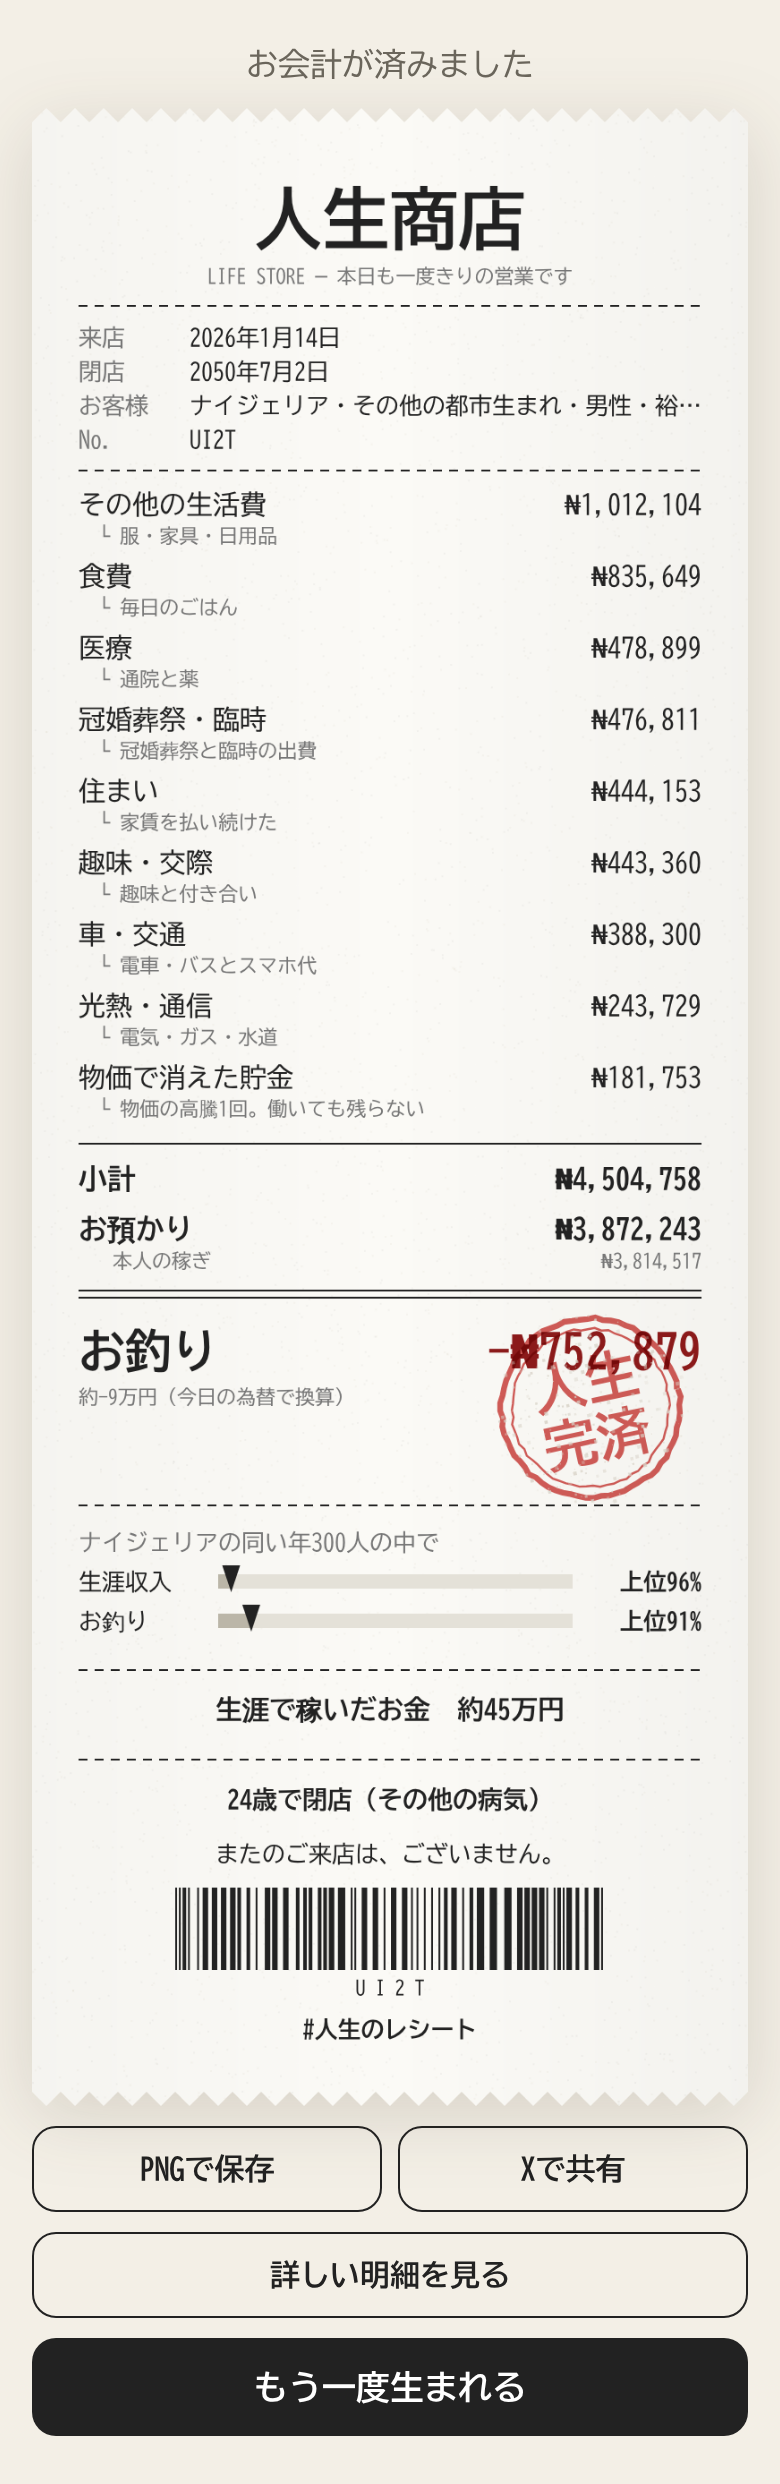
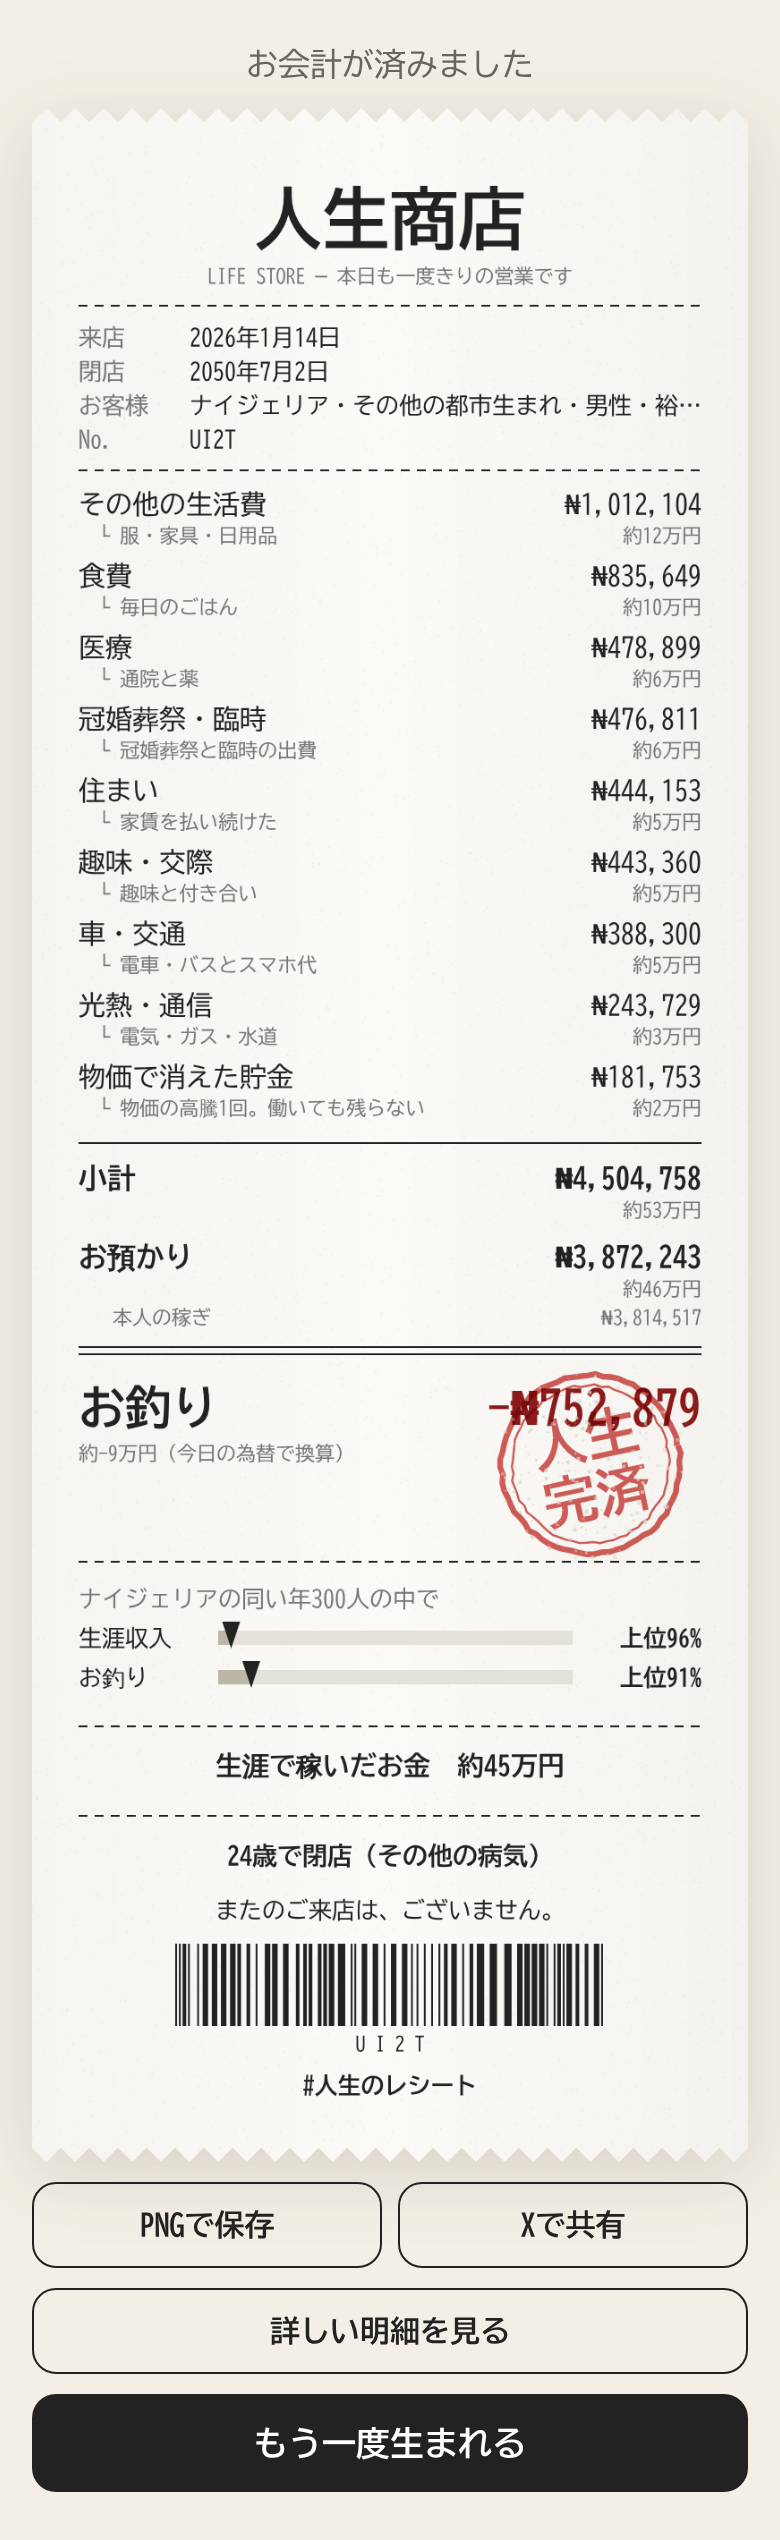
1年の進む時間を一定に、外国の通貨のレシートに円を添え、言語の切り替えを追加
- 1年は出来事の数にかかわらず3.2秒（速さは倍速ボタンだけで変える）
- レシート画像の各項目・小計・お預かりの下と、グラフの金額に円の目安を表示
- タイトル画面・詳細ページ・紹介ページに言語の切り替え（Google 翻訳で7言語）

Claude-Session: https://claude.ai/code/session_01P8h7G7H9Hz4F9jwmunJGJH

diff --git a/public/lp/index.html b/public/lp/index.html
@@ -126,6 +126,12 @@
       .faq details[open] summary::after { transform: rotate(45deg); }
       .faq p { margin-top: 16px; color: var(--sub); }
 
+      /* 言語の切り替え */
+      .topbar { display: flex; justify-content: flex-end; padding-top: 16px; }
+      .lang { display: inline-flex; align-items: center; gap: 8px; padding: 8px 16px; border-radius: 999px; background: var(--soft); color: var(--ink); font-size: 14px; cursor: pointer; }
+      .lang svg { width: 16px; height: 16px; flex: none; }
+      .lang select { appearance: none; -webkit-appearance: none; border: 0; background: transparent; color: inherit; font: inherit; cursor: pointer; padding: 0; }
+
       /* ご意見 */
       .fb { margin-top: 48px; max-width: 640px; display: grid; gap: 24px; }
       .fb fieldset { border: 0; padding: 0; margin: 0; }
@@ -167,7 +173,22 @@
   </head>
   <body>
     <main>
-      <section class="hero">
+      <div class="wrap topbar">
+        <label class="lang" translate="no">
+          <svg viewBox="0 0 24 24" fill="none" stroke="currentColor" stroke-width="1.8" stroke-linecap="round" stroke-linejoin="round" aria-hidden="true"><circle cx="12" cy="12" r="9" /><path d="M3.6 9h16.8M3.6 15h16.8" /><path d="M11.5 3a17 17 0 0 0 0 18M12.5 3a17 17 0 0 1 0 18" /></svg>
+          <select id="langSel" aria-label="Language">
+            <option value="ja">日本語</option>
+            <option value="en">English</option>
+            <option value="zh-CN">简体中文</option>
+            <option value="es">Español</option>
+            <option value="pt">Português</option>
+            <option value="fr">Français</option>
+            <option value="hi">हिन्दी</option>
+            <option value="id">Bahasa Indonesia</option>
+          </select>
+        </label>
+      </div>
+      <section class="hero" style="padding-top: 32px">
         <div class="wrap grid">
           <div>
             <div class="eyebrow"><img src="/icon-192.png" alt="" width="40" height="40" />人生のレシート</div>
@@ -346,6 +367,30 @@
       </div>
     </footer>
     <script>
+      // 言語の切り替え：ページを Google 翻訳（translate.goog）を通して開き直す（src/ui/lang.ts と同じ仕組み）
+      (function () {
+        const PROXY = ".translate.goog";
+        const sel = document.getElementById("langSel");
+        const onProxy = location.hostname.endsWith(PROXY);
+        const q = new URLSearchParams(location.search);
+        sel.value = onProxy ? q.get("_x_tr_tl") || "ja" : "ja";
+        const host = onProxy
+          ? location.host.slice(0, -PROXY.length).split("--").map((x) => x.replace(/-/g, ".")).join("-")
+          : location.host;
+        sel.addEventListener("change", () => {
+          for (const k of [...q.keys()]) if (k.startsWith("_x_tr_")) q.delete(k);
+          if (sel.value === "ja") {
+            const qs = q.toString();
+            location.href = "https://" + host + location.pathname + (qs ? "?" + qs : "") + location.hash;
+            return;
+          }
+          q.set("_x_tr_sl", "ja");
+          q.set("_x_tr_tl", sel.value);
+          q.set("_x_tr_hl", sel.value);
+          location.href = "https://" + host.replace(/-/g, "--").replace(/\./g, "-") + PROXY + location.pathname + "?" + q.toString() + location.hash;
+        });
+      })();
+
       // ご意見の送り先（Googleフォーム）。フォームを作ったら、ここに送信先と質問の番号を入れる。
       // 空のあいだは、ご意見の欄は表示しない。
       const FEEDBACK = {

diff --git a/src/ui/lang.ts b/src/ui/lang.ts
@@ -1,0 +1,70 @@
+// 言語の切り替え。ページを Google 翻訳（translate.goog）を通して開き直す。
+// ゲームの文章は日本語のまま作り、表示だけを機械翻訳する（レシート画像の中の文字は訳されない）。
+
+export const LANGS: { code: string; label: string }[] = [
+  { code: "ja", label: "日本語" },
+  { code: "en", label: "English" },
+  { code: "zh-CN", label: "简体中文" },
+  { code: "es", label: "Español" },
+  { code: "pt", label: "Português" },
+  { code: "fr", label: "Français" },
+  { code: "hi", label: "हिन्दी" },
+  { code: "id", label: "Bahasa Indonesia" },
+];
+
+const PROXY = ".translate.goog";
+
+/** translate.goog の住所から、もとのサイトの住所に戻す（"a--b-c" → "a-b.c"） */
+function originalHost(host: string): string {
+  if (!host.endsWith(PROXY)) return host;
+  return host
+    .slice(0, -PROXY.length)
+    .split("--")
+    .map((x) => x.replace(/-/g, "."))
+    .join("-");
+}
+
+/** いま表示している言語（翻訳されていなければ ja） */
+export function currentLang(): string {
+  if (!location.hostname.endsWith(PROXY)) return "ja";
+  return new URLSearchParams(location.search).get("_x_tr_tl") ?? "ja";
+}
+
+/** 指定した言語でこのページを開くURL */
+export function langUrl(code: string): string {
+  const host = originalHost(location.host);
+  const q = new URLSearchParams(location.search);
+  for (const k of [...q.keys()]) if (k.startsWith("_x_tr_")) q.delete(k);
+  if (code === "ja") {
+    const qs = q.toString();
+    return `https://${host}${location.pathname}${qs ? "?" + qs : ""}${location.hash}`;
+  }
+  const proxied = host.replace(/-/g, "--").replace(/\./g, "-") + PROXY;
+  q.set("_x_tr_sl", "ja");
+  q.set("_x_tr_tl", code);
+  q.set("_x_tr_hl", code);
+  return `https://${proxied}${location.pathname}?${q.toString()}${location.hash}`;
+}
+
+/** 言語を選ぶ小さなメニュー（地球のアイコン付き） */
+export function langPicker(): HTMLElement {
+  const wrap = document.createElement("label");
+  wrap.className = "lang";
+  wrap.setAttribute("translate", "no");
+  wrap.innerHTML = `<svg viewBox="0 0 24 24" fill="none" stroke="currentColor" stroke-width="1.8" stroke-linecap="round" stroke-linejoin="round" aria-hidden="true"><circle cx="12" cy="12" r="9"/><path d="M3.6 9h16.8M3.6 15h16.8"/><path d="M11.5 3a17 17 0 0 0 0 18M12.5 3a17 17 0 0 1 0 18"/></svg>`;
+  const sel = document.createElement("select");
+  sel.setAttribute("aria-label", "Language");
+  const now = currentLang();
+  for (const l of LANGS) {
+    const o = document.createElement("option");
+    o.value = l.code;
+    o.textContent = l.label;
+    if (l.code === now) o.selected = true;
+    sel.append(o);
+  }
+  sel.onchange = () => {
+    location.href = langUrl(sel.value);
+  };
+  wrap.append(sel);
+  return wrap;
+}

diff --git a/src/main.ts b/src/main.ts
@@ -1,3 +1,4 @@
+import { langPicker } from "./ui/lang";
 import { Life, jobLabel, cohort } from "./engine/sim";
 import { randomSeed, Rng, hashStr } from "./engine/rng";
 import { buildReceipt, detailUrl, shareIntentUrl, newLife } from "./engine/result";
@@ -7,8 +8,10 @@ import { drawReceipt, downloadReceipt } from "./ui/receipt";
 
 // 1年の長さは出来事の数で変える。何も起きない年はすぐ過ぎ、出来事の多い年はじっくり見せる。
 // 選択（大きな8回＋小さな選択）を含めて、等倍で1プレイ約10分。
-const QUIET_YEAR_MS = 1_200;
-const yearMsFor = (events: number) => (events === 0 ? QUIET_YEAR_MS : Math.min(6_000, 2_200 + 900 * events));
+// 1年が進む時間は、出来事があってもなくても同じ（速さを変えるのは画面下の倍速ボタンだけ）。
+// 3.2秒は、これまで出来事の数で変えていたときの1年の平均に合わせた長さ
+const YEAR_MS = 3_200;
+
 const SPEEDS = [1, 2, 3, 4, 5] as const;
 
 const params = new URLSearchParams(location.search);
@@ -51,6 +54,7 @@ function showTitle(): void {
       </div>
     </div>`),
   );
+  app.querySelector(".title")!.prepend(langPicker());
   app.querySelectorAll<HTMLElement>(".mode").forEach(
     (b) => (b.onclick = () => showBirth(params.get("seed") || randomSeed(), b.dataset.mode as Mode)),
   );
@@ -107,7 +111,7 @@ class Game {
   speed = 1; // 0 = 一時停止
   lastSpeed = 1;
   private yearT = 0; // 今の年の経過ms
-  private yearMs = QUIET_YEAR_MS; // 今の年の長さms
+  private yearMs = YEAR_MS; // 今の年の長さms
   /** 等倍での自動進行の合計時間（テストでプレイ時間の目安を出すため） */
   autoMs = 0;
   /** 等倍で遊んだときの目安（選択は大きな分かれ道20秒・小さな選択6秒と見込む） */
@@ -200,7 +204,7 @@ class Game {
       this.current = rec;
       this.shown = 0;
       this.yearT = 0;
-      this.yearMs = yearMsFor(rec.events.length);
+      this.yearMs = YEAR_MS;
       this.autoMs += this.yearMs;
       this.renderHud();
     }

diff --git a/src/detail.ts b/src/detail.ts
@@ -1,4 +1,5 @@
 // 結果の詳細ページ（r.html#<code>）。URLのコードから人生を再現して描く。サーバー不要。
+import { langPicker } from "./ui/lang";
 import "./ui/detail.css";
 import { buildReceipt, decodeResult, isOldVersion, replayByIndex, shareIntentUrl, turningPoints, yen } from "./engine/result";
 import { EXPENSE_LABEL, type ExpenseCat, type IncomeCat, type YearRecord } from "./engine/types";
@@ -135,7 +136,7 @@ function renderChart(box: HTMLElement, data: YearFlow[]): void {
       cursor.setAttribute("x1", String(cx));
       cursor.setAttribute("x2", String(cx));
       cursor.setAttribute("visibility", "visible");
-      tip.innerHTML = `<b>${d.age}歳</b><span class="in">収入 ${man(d.income)}</span><span class="ex">支出 ${man(d.expense)}</span><span class="bl">残高 ${man(d.balance)}</span>`;
+      tip.innerHTML = `<b>${d.age}歳</b><span class="in">収入 ${fmt(d.income)}</span><span class="ex">支出 ${fmt(d.expense)}</span><span class="bl">残高 ${fmt(d.balance)}</span>`;
       tip.hidden = false;
       const left = (cx / W) * rect.width;
       const tw = tip.offsetWidth;
@@ -258,6 +259,12 @@ function render(l: Life): void {
     window.open(shareIntentUrl(location.href, d), "_blank", "noopener");
   });
   renderChart(app.querySelector<HTMLElement>(".chart")!, flows(l.records));
+  const head = app.querySelector(".head");
+  if (head) {
+    const lp = langPicker();
+    lp.style.float = "right";
+    head.prepend(lp);
+  }
 }
 
 async function main(): Promise<void> {

diff --git a/src/ui/receipt.ts b/src/ui/receipt.ts
@@ -234,18 +234,34 @@ function layout(p: Pen, d: ReceiptData): void {
   const jp = d.currency.code === "JPY";
   const sym = jp ? "¥" : d.currency.symbol || d.currency.code + " ";
   const money = (n: number) => yenFull(n, sym);
+  // 日本以外は、金額の下に円の目安を小さく添える（現地通貨だけではどのくらいの出費か分からないため）
+  const yenW = 92;
+  const yenNote = (amount: number) => {
+    if (jp || !p.draw) return;
+    text(p, approxYen(amount * d.currency.jpyPerUnit), W - PAD, 11, { color: GRAY, align: "right" });
+  };
   for (const it of d.items) {
     row(p, it.label, money(it.amount), 15);
-    if (it.memo && it.memo !== "—") {
+    const memo = it.memo && it.memo !== "—";
+    if (memo || !jp) {
       p.y += 16;
-      text(p, "　└ " + it.memo, PAD, 11, { color: GRAY, maxW: W - PAD * 2 });
+      if (memo) text(p, "　└ " + it.memo, PAD, 11, { color: GRAY, maxW: W - PAD * 2 - (jp ? 0 : yenW) });
+      yenNote(it.amount);
     }
     p.y += 3;
   }
   rule(p, "solid");
   row(p, "小計", money(d.subtotal), 16, { bold: true });
+  if (!jp) {
+    p.y += 16;
+    yenNote(d.subtotal);
+  }
   p.y += 6;
   row(p, "お預かり", money(d.deposit), 16, { bold: true });
+  if (!jp) {
+    p.y += 16;
+    yenNote(d.deposit);
+  }
   for (const l of d.depositLines) {
     p.y += 16;
     if (p.draw) {

diff --git a/src/ui/detail.css b/src/ui/detail.css
@@ -178,3 +178,28 @@ h1, h2 { margin: 0; line-height: 1.4; }
 .empty h1 { font-size: 20px; margin-bottom: 12px; }
 .empty p { color: var(--sub); font-size: 14px; margin: 0 0 22px; }
 .empty p.q { color: var(--accent); font-weight: 700; font-size: 15px; line-height: 1.6; margin: 0 0 14px; }
+
+/* 言語の切り替え */
+.lang {
+  display: inline-flex;
+  align-items: center;
+  gap: 6px;
+  padding: 6px 12px;
+  border-radius: 999px;
+  background: rgba(0, 0, 0, 0.05);
+  color: inherit;
+  font-size: 13px;
+  cursor: pointer;
+}
+.lang svg { width: 16px; height: 16px; flex: none; }
+.lang select {
+  appearance: none;
+  -webkit-appearance: none;
+  border: 0;
+  background: transparent;
+  color: inherit;
+  font: inherit;
+  cursor: pointer;
+  padding: 0;
+}
+.title > .lang { align-self: flex-end; margin-bottom: 8px; }

diff --git a/src/style.css b/src/style.css
@@ -588,3 +588,28 @@ button {
   overflow: hidden;
   text-overflow: ellipsis;
 }
+
+/* 言語の切り替え */
+.lang {
+  display: inline-flex;
+  align-items: center;
+  gap: 6px;
+  padding: 6px 12px;
+  border-radius: 999px;
+  background: rgba(0, 0, 0, 0.05);
+  color: inherit;
+  font-size: 13px;
+  cursor: pointer;
+}
+.lang svg { width: 16px; height: 16px; flex: none; }
+.lang select {
+  appearance: none;
+  -webkit-appearance: none;
+  border: 0;
+  background: transparent;
+  color: inherit;
+  font: inherit;
+  cursor: pointer;
+  padding: 0;
+}
+.title > .lang { align-self: flex-end; margin-bottom: 8px; }

diff --git a/README.md b/README.md
@@ -45,6 +45,12 @@
 | 2,000万〜1億円 | 老後安泰 |
 | 1億円以上 | 大黒字御礼 |
 
+## 表示の決まり
+
+- 1年が進む時間は、出来事の数にかかわらず一定（等倍で3.2秒）。速さは画面下の倍速ボタンだけで変える。
+- 日本以外の国では、レシート画像の各項目・小計・お預かりの下と、グラフの金額に、円の目安を添える。
+- 言語の切り替え（タイトル画面・詳細ページ・紹介ページの右上）：ページを Google 翻訳（translate.goog）を通して開き直す。英語・中国語（簡体字）・スペイン語・ポルトガル語・フランス語・ヒンディー語・インドネシア語。レシート画像の中の文字は訳されない（`src/ui/lang.ts`）。
+
 ## 紹介ページ（LP）とアイコン
 
 - 紹介ページ：`public/lp/index.html`（公開URL `/lp/`）。ページの中で感想・直してほしい点を送れる欄があり、送り先はGoogleフォーム（ページ下の FEEDBACK に送信先と質問の番号を入れると欄が表示される）。「生まれてみる」ボタンでゲーム（`/`）へ移る。一般の人向けの紹介と、授業での使い方・データの説明を1ページにまとめている。画像は `public/lp/img/`。
